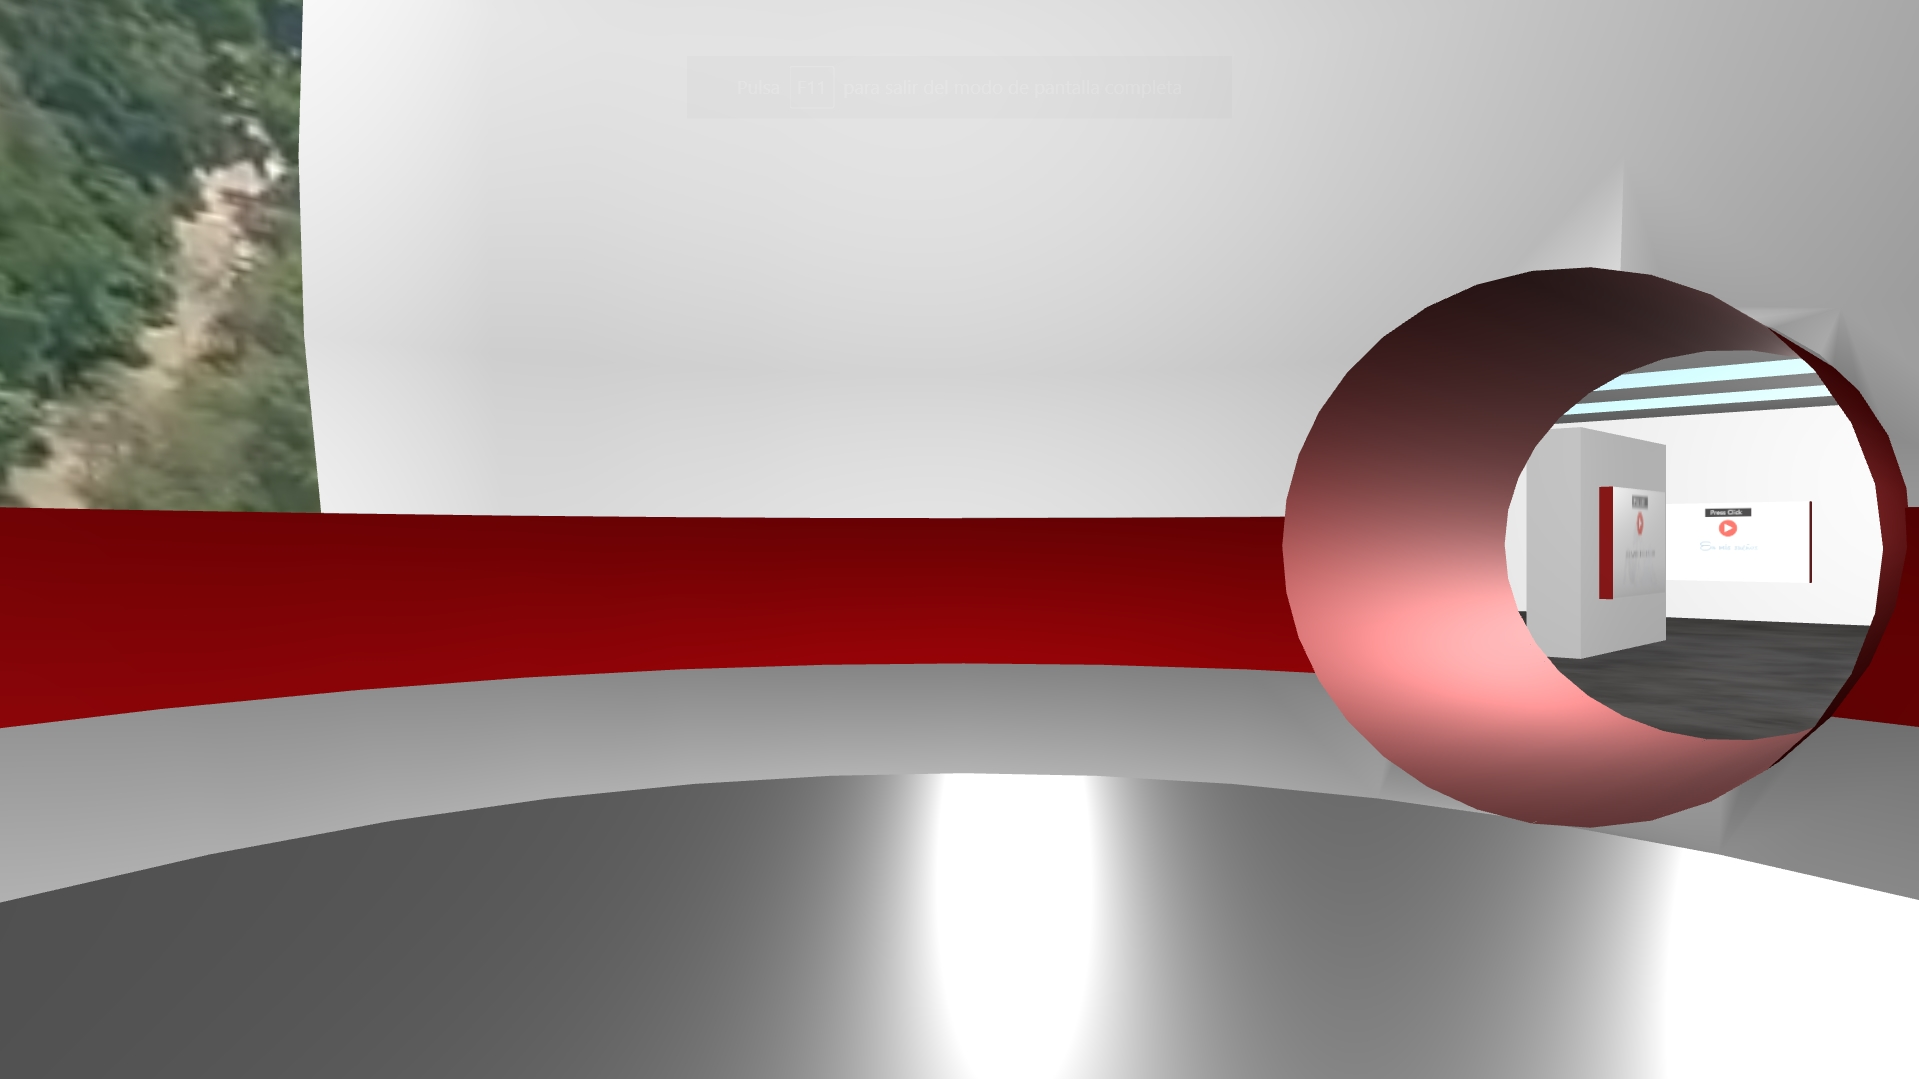
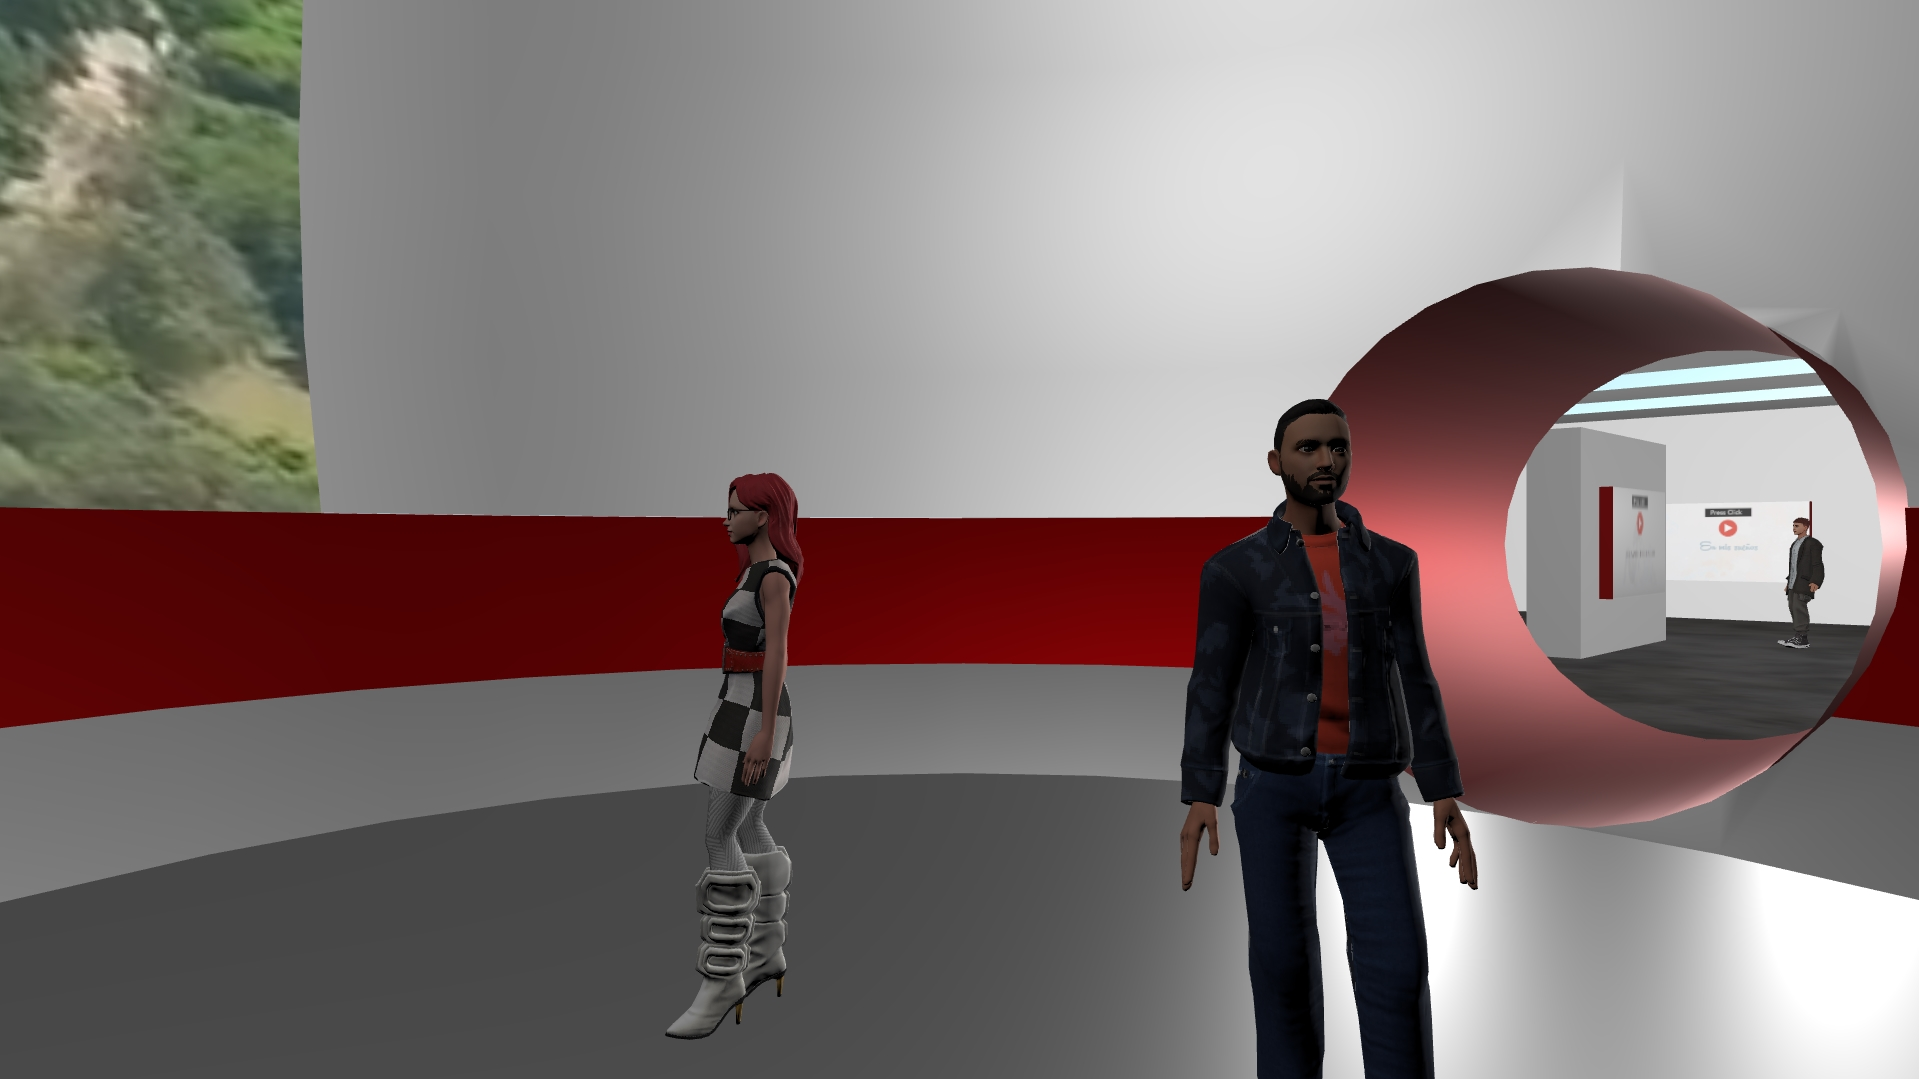
Version 0.9.3 DomoGallery

diff --git a/src/Start.jsx b/src/Start.jsx
@@ -5,6 +5,7 @@ import Experience from "./Experience"
 import { LinearToneMapping, sRGBEncoding } from 'three'
 
 export default function Start() {
+    
     const [init, setInit] = useState(false)
     const infoRef = useRef()
     const cameraSettings = {
@@ -14,38 +15,37 @@ export default function Start() {
         position: [11.25, -2.5, -2.25],
         rotation: [0, Math.PI * 0.75, 0]
     }
+    const keyboardControls = [
+        { name: "forward", keys: ["ArrowUp", "w", "W"] },
+        { name: "backward", keys: ["ArrowDown", "s", "S"] },
+        { name: "left", keys: ["ArrowLeft", "a", "A"] },
+        { name: "right", keys: ["ArrowRight", "d", "D"] },
+    ]
     const startGame = (init) => {
         if (init) {
             infoRef.current.style.visibility = 'hidden'
             infoRef.current.style.height = '0px'
-            return <>
-                <KeyboardControls
-                    map={[
-                        { name: "forward", keys: ["ArrowUp", "w", "W"] },
-                        { name: "backward", keys: ["ArrowDown", "s", "S"] },
-                        { name: "left", keys: ["ArrowLeft", "a", "A"] },
-                        { name: "right", keys: ["ArrowRight", "d", "D"] },
-                    ]}>
-                    <Canvas
-                        shadows={true}
-                        dpr={[1, 2]}
-                        flat
-                        gl={
-                            {
-                                antialias: true,
-                                toneMapping: LinearToneMapping,
-                                outputEncoding: sRGBEncoding
+            return (
+                <Suspense fallback={<Loader />}>
+                    <KeyboardControls
+                        map={keyboardControls}>
+                        <Canvas
+                            dpr={[1, 2]}
+                            flat
+                            gl={
+                                {
+                                    antialias: true,
+                                    toneMapping: LinearToneMapping,
+                                    outputEncoding: sRGBEncoding
+                                }
                             }
-                        }
-                        camera={cameraSettings}
-                    >
-                        <Suspense fallback={null}>
+                            camera={cameraSettings}
+                        >
                             <Experience />
-                        </Suspense>
-                    </Canvas>
-                    <Loader />
-                </KeyboardControls>
-            </>
+                        </Canvas>
+                    </KeyboardControls>
+                </Suspense>
+            )
         }
     }
 
@@ -53,7 +53,7 @@ export default function Start() {
         <div ref={infoRef} className="info">
             <div className="card">
                 <h1 style={{ fontSize: "xxx-large" }}>
-                    Dome & Art Gallery
+                    DomoGallery
                 </h1>
                 <p style={{ fontSize: "x-large" }}>
                     Instructions:
@@ -62,7 +62,7 @@ export default function Start() {
                     <br />
                     Press keys W-A-S-D to walk
                     <br />
-                    Double click to play videos
+                    Click to play videos
                 </p>
                 <p style={{ fontSize: "x-large" }}>
                     Created by:

diff --git a/src/Experience.jsx b/src/Experience.jsx
@@ -6,6 +6,7 @@ import Gallery from './world/Gallery';
 import PhysicsBodies from './utils/PhysicsBodies';
 import Player from './utils/Player';
 import Avatar from './world/Avatar';
+import Info from './world/Info';
 
 export default function Experience() {
     return <>
@@ -13,12 +14,13 @@ export default function Experience() {
             {/* <Debug /> */}
             <Environments />
             <Center>
-                <Domo />
                 <Gallery />
-                <Avatar type="woman" urlAvatar={"/static/model/avatar/avatar1.glb"} position={[0, 0, 1]} rotation={[0, (3 * Math.PI) / 4, 0]} />
+                <Info position={[-8, 2, -4.5]} args={[2.5, 2.5]} rotation={[0, -Math.PI / 2, 0]}/>
+                <Avatar type="woman" urlAvatar={"/static/model/avatar/avatar1.glb"} position={[0, 0, 1]} rotation={[0, Math.PI / 3, 0]} />
                 <Avatar type="men" urlAvatar={"/static/model/avatar/avatar2.glb"} position={[0, 0, -1]} rotation={[0, (3 * Math.PI) / 4, 0]} />
-                <Avatar type="men" urlAvatar={"/static/model/avatar/avatar3.glb"} position={[-16, 0, 1]} rotation={[0, 2 * Math.PI, 0]} />
-                <Avatar type="woman" urlAvatar={"/static/model/avatar/avatar4.glb"} position={[-13, 0, -6]} rotation={[0, Math.PI, 0]} />
+                <Avatar type="men" urlAvatar={"/static/model/avatar/avatar3.glb"} position={[-18, 0, 1]} rotation={[0, Math.PI/4, 0]} />
+                <Avatar type="woman" urlAvatar={"/static/model/avatar/avatar4.glb"} position={[-15, 0, -6]} rotation={[0, (5 * Math.PI)/6, 0]} />
+                <Domo />
                 <PhysicsBodies />
             </Center>
             <PointerLockControls />

diff --git a/src/style.css b/src/style.css
@@ -14,6 +14,7 @@ body,
 div {
     display: flex;
     flex-direction: column;
+    font-family: 'Rubik', sans-serif;
 }
 
 .info{
@@ -25,6 +26,7 @@ div {
     height: 100%;
 }
 .card{
+    width: 30%;
     padding: 2%;
     background-color: rgba(0, 0, 0, 0.8);
 }
@@ -33,7 +35,7 @@ h1, p{
     color: white;
 }
 p{
-    line-height: 135%;
+    line-height: 130%;
 }
 .buttonStart{
     padding: 0% 40% 0% 40%;
@@ -47,7 +49,6 @@ button {
 	border:1px solid #942911;
 	cursor:pointer;
 	color:#ffffff;
-	font-family:Arial;
 	font-size: x-large;
 	text-decoration:none;
 	text-shadow:0px 1px 0px #854629;
@@ -60,8 +61,13 @@ button:active {
 	top:1px;
 }
   
-@media all and (max-width:30em){
+@media all and (max-width: 1080px){
     .buttonStart{
         padding: 0% 20% 0% 20%;
+    }
+    .card{
+        width: 75%;
+        padding: 2%;
+        background-color: rgba(0, 0, 0, 0.8);
     }
 }

diff --git a/src/world/Avatar.jsx b/src/world/Avatar.jsx
@@ -5,9 +5,7 @@ let url = ""
 
 export default function Avatar(props) {
     const group = useRef()
-    url = props.urlAvatar
-
-    const { nodes, materials } = useGLTF(url);
+    const { nodes, materials } = useGLTF(props.urlAvatar);
     const { animations } = useGLTF((props.type == "men")? "/static/animations/menAnimations.glb": "/static/animations/womanAnimations.glb");
     const { actions } = useAnimations(animations, group);
 
@@ -16,6 +14,7 @@ export default function Avatar(props) {
         action.play()
     }, [])
 
+    url = props.urlAvatar
     return (
         <group ref={group} {...props}>
             <group name="Scene">

diff --git a/src/world/Info.jsx b/src/world/Info.jsx
@@ -1,0 +1,11 @@
+import { useTexture } from "@react-three/drei"
+
+export default function Info(props) {
+    const infoMaterial = useTexture('/static/textures/info/info.jpg')
+    return (
+        <mesh position={props.position} rotation={props.rotation}>
+            <planeGeometry args={props.args} />
+            <meshBasicMaterial map={infoMaterial} />
+        </mesh>
+    )
+}

diff --git a/public/index.html b/public/index.html
@@ -5,7 +5,7 @@
     <meta http-equiv="X-UA-Compatible" content="IE=edge">
     <meta name="viewport" content="width=device-width, initial-scale=1.0">
     <link rel="icon" type="image/x-icon" href="/static/favicon.png">
-    <title>Dome & Art Gallery</title>
+    <title>DomoGallery</title>
 </head>
 <body>
     <div id="root"></div>

diff --git a/src/world/Gallery.jsx b/src/world/Gallery.jsx
@@ -5,6 +5,7 @@ import { useState } from "react"
 export default function Gallery(props) {
     //Carga modelo
     const { nodes, materials } = useGLTF('/static/model/gallery/gallery.glb')
+   
 
     const poster1Ref = useRef()
     const poster2Ref = useRef()
